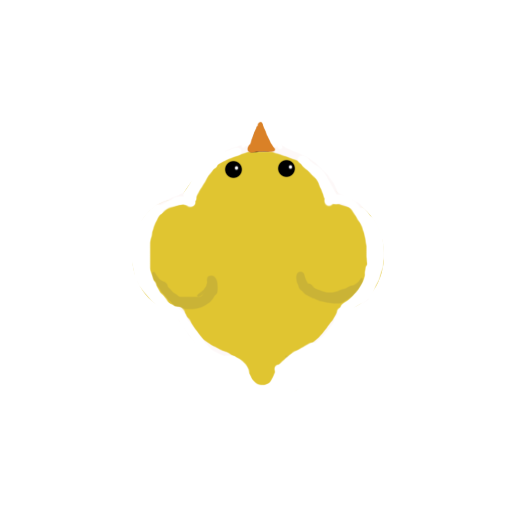
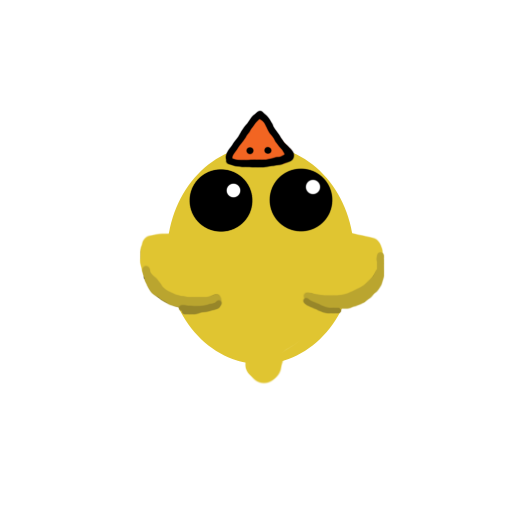
cxzvzxcxcvzcxv

diff --git a/chickenSquisher-core/src/com/shadowtopstudios/chickenSquisher/Chick.java b/chickenSquisher-core/src/com/shadowtopstudios/chickenSquisher/Chick.java
@@ -4,6 +4,7 @@ import java.util.Random;
 
 import com.badlogic.gdx.Gdx;
 import com.badlogic.gdx.graphics.Texture;
+import com.badlogic.gdx.graphics.g2d.Sprite;
 
 public class Chick extends Animal
 {
@@ -17,13 +18,15 @@ public class Chick extends Animal
 		this.mId = id;
 		this.mStrength = id;
 		this.mSpeed = 0.2f + ((float)rand.nextInt(4)/10.f);
-		this.mRadius = 1.0f;
-		this.mWidth = 4.f;
+		this.mRadius = 1.5f;
+		this.mWidth = 6.f;
 		this.mParent = new Touch(-1,-1,-1);
 		this.getRandomParent(mOthers.mWorld.CAMERA_WIDTH,mOthers.mWorld.CAMERA_HEIGHT);
-		this.mTexture = new Texture(Gdx.files.internal("chickie.png"));
+		this.mTexture = new Sprite(new Texture(Gdx.files.internal("chickie.png")));
+		this.mTexture.setSize(this.mWidth, this.mWidth);
+		mTexture.setOriginCenter();
 		mTimer = 120;
-		mSkitterMax = 10+rand.nextInt(10);
+		mSkitterMax = 20+rand.nextInt(20);
 		mSkitter = mSkitterMax;
 	}
 		
@@ -54,38 +57,31 @@ public class Chick extends Animal
 			mMoveRad = smallRad;
 		}
 		
-		this.mAngle = (this.mAngle-5)+rand.nextInt(10);
+		this.mAngle = (this.mAngle-7)+rand.nextInt(14);
 		this.findSlope();
 		int id = this.moveIfFree();
-		if(id !=-1 && this.mOthers.mAnimals[id].mMoving == false)
-		{
-			float x=this.mOthers.mAnimals[id].pleaseMoveX(mDx, mId);
-			float y=this.mOthers.mAnimals[id].pleaseMoveY(mDy, mId);
-			System.out.println("x is:");
-			System.out.println(x);
-			System.out.println();
-			mX+=x;
-			mY+=y;
-		}
-		else if(id != -1 && this.mOthers.mAnimals[id].getStrength() > mStrength)
+		if(id != -1 && this.mOthers.mAnimals[id].getStrength() > mStrength)
 		{
 			Touch other = this.mOthers.mAnimals[id].getParent();
 			this.mParent.mX = other.mX-2 +rand.nextInt(4);
 			this.mParent.mY = other.mY-2 +rand.nextInt(4);
 			this.mParent.mPointer = other.mPointer;
 		}
-		else if(this.mParent.mPointer == -1 && id !=-1)
+		if(this.mParent.mPointer == -1 && id !=-1)
 		{
 			getRandomParent(mOthers.mWorld.CAMERA_WIDTH,mOthers.mWorld.CAMERA_HEIGHT);
 		}
+		//mTexture.setPosition(0, 0);
+		mTexture.setRotation(mAngle-90);
 		
+		mTexture.setPosition(mX, mY);
 		mSkitter--;
 		if(mSkitter <=0)
 		{
 			mSkitter = mSkitterMax;
 			this.mAngle = this.getAngle(mParent.mX, mParent.mY);
 		}
-		return true;
+		return mAlive;
 		
 	}
 

diff --git a/chickenSquisher-core/src/com/shadowtopstudios/chickenSquisher/Animal.java b/chickenSquisher-core/src/com/shadowtopstudios/chickenSquisher/Animal.java
@@ -2,8 +2,7 @@ package com.shadowtopstudios.chickenSquisher;
 
 import java.util.Random;
 
-import com.badlogic.gdx.Gdx;
-import com.badlogic.gdx.graphics.Texture;
+import com.badlogic.gdx.graphics.g2d.Sprite;
 import com.badlogic.gdx.graphics.g2d.SpriteBatch;
 
 public abstract class Animal
@@ -17,26 +16,29 @@ public abstract class Animal
 	protected float mRadius;
 	
 	protected float mWidth;
-	protected Texture mTexture;
+	protected Sprite mTexture;
 	protected Touch mParent;
 	protected AnimalContainer mOthers;
 	protected Random rand;
 	protected int mId;
-	
+	protected boolean mAlive=true;
 	protected int mStrength;
 	public boolean mMoving=true;
-	public static final int smallRad = 7;
-	public static final int bigRad = 15;
+	public static final int smallRad = 4;
+	public static final int bigRad = 10;
 	public int mMoveRad = smallRad;
 	public int mTimer;
 	public int mSkitterMax;
 	public int mSkitter;
 	
+	
 	public void draw(SpriteBatch batch)
 	{
 		//batch.draw(mTexture, mX, mY, 0, 0, mWidth, mWidth, 1, 1);
 		//batch.draw(mTexture, mX, mY, mX, mY, mWidth, mWidth, 1.f, 1.f, mAngle, 0, 0, (int)mWidth, (int)mWidth, false, false);
-		batch.draw(mTexture, mX, mY, mWidth, -mWidth);
+		//mTexture.setRotation(mAngle);
+		mTexture.draw(batch);
+		//batch.draw(mTexture, mX, mY, mWidth, -mWidth);
 	}
 	public abstract boolean update(float delta);
 	
@@ -117,11 +119,7 @@ public abstract class Animal
 		id = mOthers.collisionWithOthers(mX+x, mY, mId);
 		if(id !=other && id != mId && id !=-1)
 		{
-			if(distanceFromMe(mX+x,mY)>distanceFromMe(mX,mY))
-			{
-				mX+=x;
-				return x;
-			}
+			
 			return 0.f;
 		}
 		mX+=x;
@@ -135,11 +133,6 @@ public abstract class Animal
 		if(id !=other && id != mId && id !=-1)
 		{
 			//mOthers.mAnimals[id].pleaseMoveY(y,mId);
-			if(distanceFromMe(mX,mY+y)>distanceFromMe(mX,mY))
-			{
-				mY+=y;
-				return y;
-			}
 			return 0.f;
 		}
 		mY+=y;

diff --git a/chickenSquisher-core/src/com/shadowtopstudios/chickenSquisher/World.java b/chickenSquisher-core/src/com/shadowtopstudios/chickenSquisher/World.java
@@ -1,6 +1,8 @@
 package com.shadowtopstudios.chickenSquisher;
 
+import com.badlogic.gdx.Gdx;
 import com.badlogic.gdx.graphics.OrthographicCamera;
+import com.badlogic.gdx.graphics.Texture;
 import com.badlogic.gdx.graphics.g2d.SpriteBatch;
 
 public class World
@@ -13,6 +15,8 @@ public class World
 	protected SpriteBatch mShadowBatch;
 	protected SpriteBatch mMeteorBatch;
 	protected SpriteBatch mChickBatch;
+	
+	protected Texture mBackground;
 	
 	protected AnimalContainer mAnimals;
 	
@@ -28,16 +32,22 @@ public class World
 		mChickBatch = new SpriteBatch();
 		
 		mAnimals = new AnimalContainer(this);
+		mBackground = new Texture(Gdx.files.internal("Background_desert.png"));
 	}
 	public void update(float delta)
 	{
 		//mMeteorContainer.update(delta);
 		mAnimals.update(delta);
 	}
+	public void checkChicks(float x,float y,float radius)
+	{
+		mAnimals.killChicks(x,y,radius);
+	}
 	public void draw()
 	{
 		mShadowBatch.begin();
 		mShadowBatch.setProjectionMatrix(mCamera.combined);
+		mShadowBatch.draw(mBackground,0,0,CAMERA_WIDTH,CAMERA_HEIGHT);
 		//meteor container draw shadows
 		mShadowBatch.end();
 		

diff --git a/chickenSquisher-core/src/com/shadowtopstudios/chickenSquisher/AnimalContainer.java b/chickenSquisher-core/src/com/shadowtopstudios/chickenSquisher/AnimalContainer.java
@@ -10,7 +10,8 @@ public class AnimalContainer
 	public Animal[] mAnimals;
 	protected int[] mUpdateLoop;
 	protected int mUpdateSize=SIZE;
-	protected float mRadRadSquared=3;
+	protected float mRadRadSquared=7;
+	protected float mRadius;
 	
 	public AnimalContainer(World w)
 	{
@@ -27,6 +28,7 @@ public class AnimalContainer
 				index++;
 			}
 		}
+		mRadius = mAnimals[index].mRadius;
 		//mUpdateLoop[index]=index;
 		//mAnimals[index]=new Chick(30,30,this,index);
 		//mUpdateSize = 1;
@@ -44,6 +46,16 @@ public class AnimalContainer
 			}
 		}
 		return -1;
+	}
+	public void killChicks(float x,float y,float rad)
+	{
+		for(int i=0;i<mUpdateSize;i++)
+		{
+			if(mAnimals[mUpdateLoop[i]].distanceFromMe(x,y)<((rad+mRadius)*(rad+mRadius)))
+			{
+				mAnimals[mUpdateLoop[i]].mAlive = false;
+			}
+		}
 	}
 	public void update(float delta)
 	{
